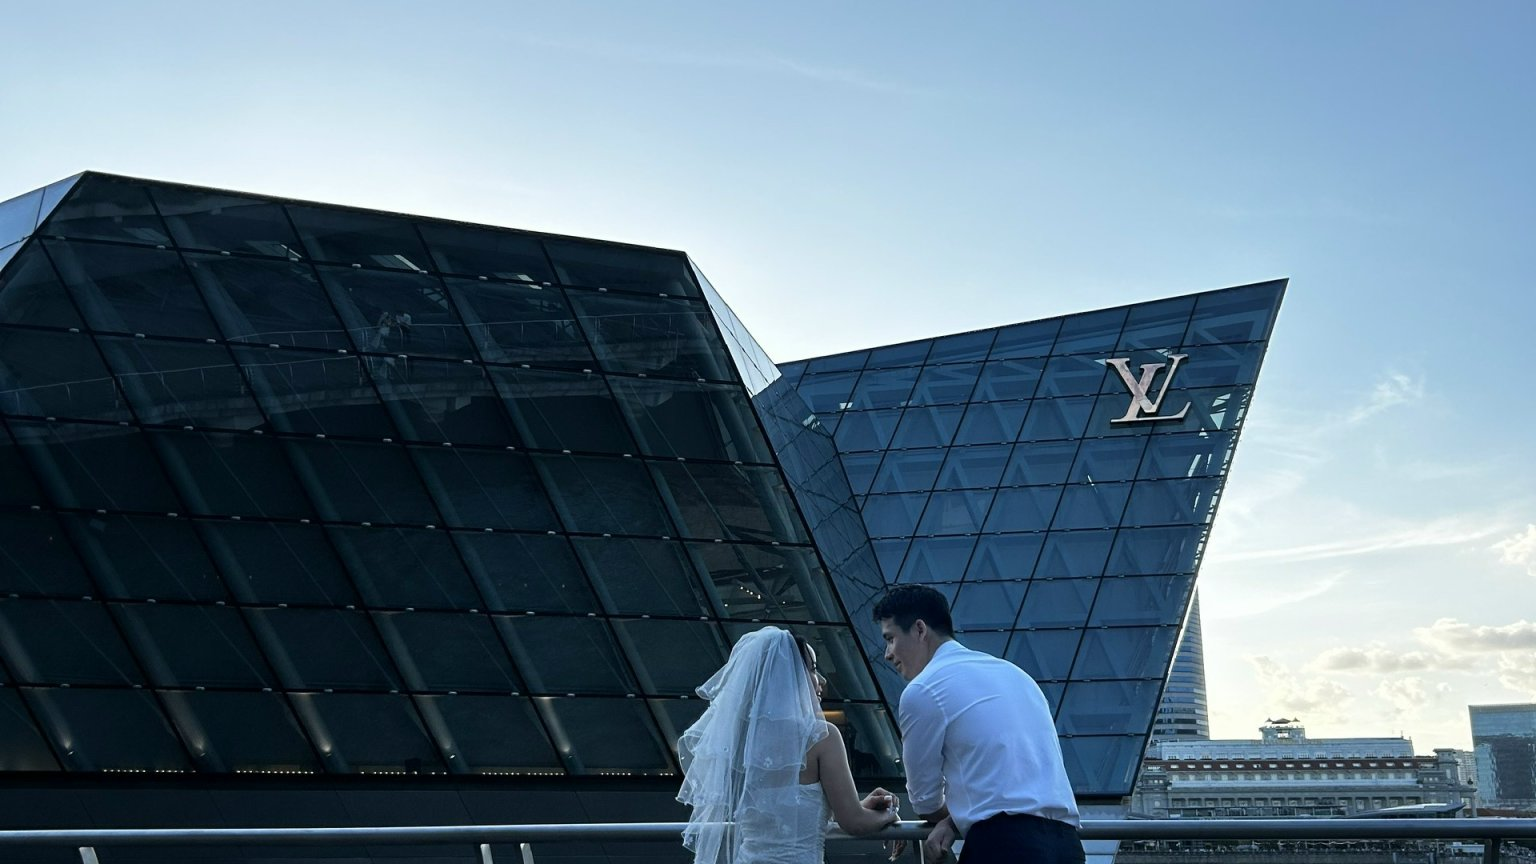
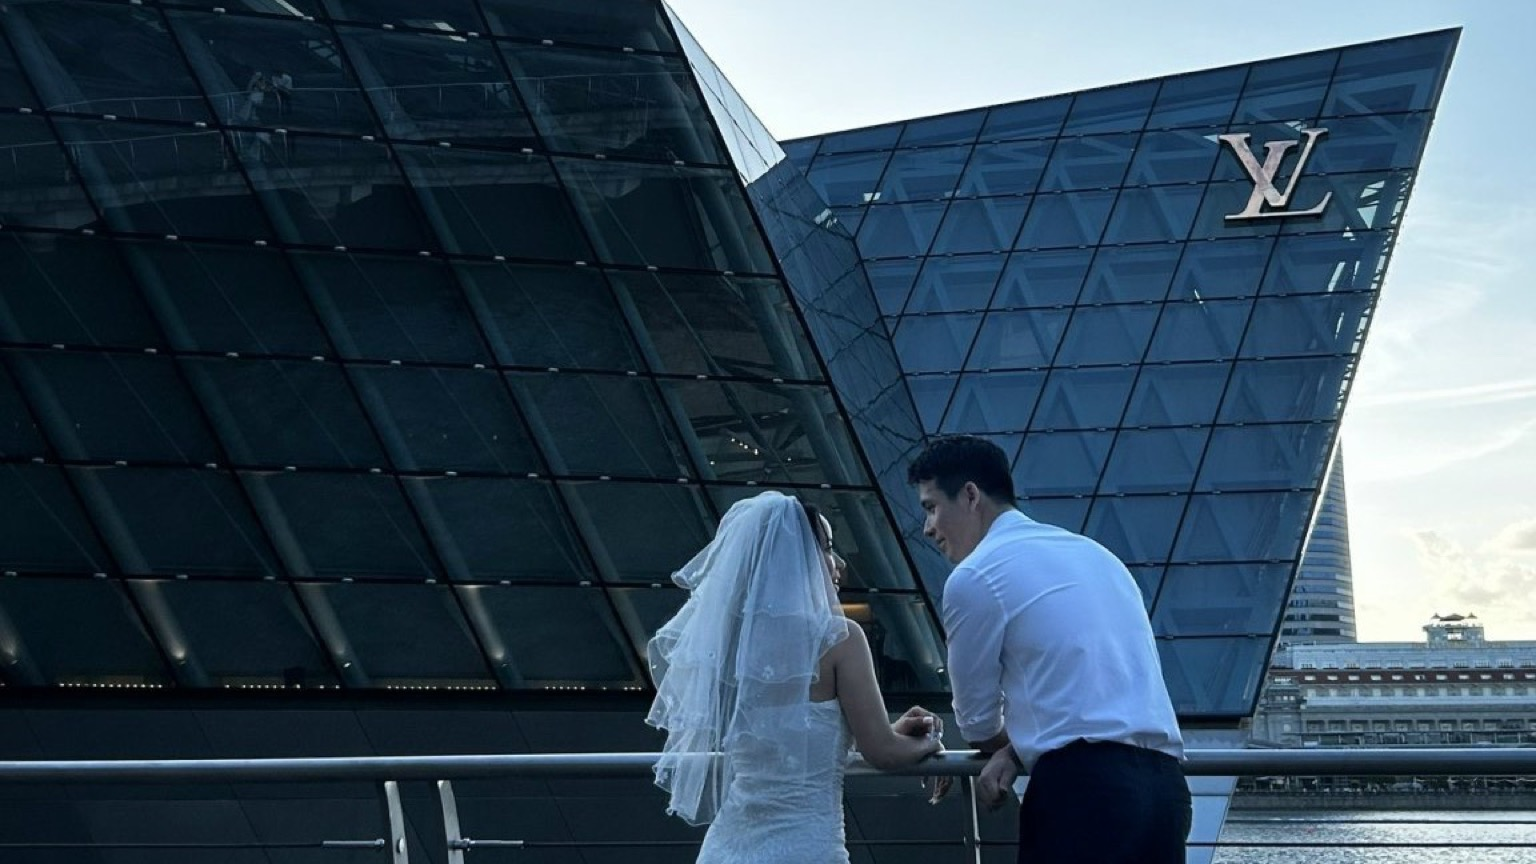
fix: add art-directed hero crops

diff --git a/apps/v1/src/components/ResponsiveImage.tsx b/apps/v1/src/components/ResponsiveImage.tsx
@@ -51,7 +51,6 @@ interface ResponsivePictureProps {
   mobileSrc: string;
   tabletSrc: string;
   desktopSrc: string;
-  backgroundSrc?: string;
   alt: string;
   className?: string;
   objectFit?: 'cover' | 'contain' | 'fill' | 'scale-down';
@@ -70,7 +69,6 @@ export const ResponsivePicture: React.FC<ResponsivePictureProps> = ({
   mobileSrc,
   tabletSrc,
   desktopSrc,
-  backgroundSrc,
   alt,
   className = '',
   objectFit = 'cover',
@@ -79,13 +77,6 @@ export const ResponsivePicture: React.FC<ResponsivePictureProps> = ({
 }) => {
   return (
     <div className="responsive-picture">
-      {backgroundSrc && (
-        <div
-          aria-hidden="true"
-          className="responsive-picture__backdrop"
-          style={{ backgroundImage: `url("${backgroundSrc}")` }}
-        />
-      )}
       <picture className="relative z-10 block h-full w-full">
       {/* Mobile: 0px to 640px */}
       <source media="(max-width: 640px)" srcSet={mobileSrc} />

diff --git a/apps/v1/src/index.css b/apps/v1/src/index.css
@@ -62,15 +62,6 @@
   background: #8ca8bd;
 }
 
-.responsive-picture__backdrop {
-  position: absolute;
-  inset: -24px;
-  background-position: center;
-  background-size: cover;
-  filter: blur(18px) brightness(0.7);
-  transform: scale(1.06);
-}
-
 /* Mobile: Full viewport height with contained image */
 @media (max-width: 640px) {
   .hero-section {
@@ -114,19 +105,10 @@
   .hero-image {
     width: 100%;
     height: 100%;
-    object-fit: contain !important;
+    object-fit: cover !important;
     object-position: center;
   }
 
-  .hero-section .responsive-picture__backdrop {
-    display: block;
-  }
-}
-
-@media (max-width: 1024px) {
-  .hero-section .responsive-picture__backdrop {
-    display: none;
-  }
 }
 
 /* Responsive Image Styles */

diff --git a/apps/v1/src/App.tsx b/apps/v1/src/App.tsx
@@ -156,13 +156,10 @@ const Hero = ({ language, isMuted, onToggle, heroImages }: LocalizedProps & Pick
         <ResponsivePicture
           mobileSrc={heroImages.mobile}
           tabletSrc={heroImages.tablet}
-          // The current landscape source is already cropped at the waist. Keep it
-          // as the desktop backdrop, while showing the complete portrait source.
-          desktopSrc={heroImages.mobile}
-          backgroundSrc={heroImages.desktop}
+          desktopSrc={heroImages.desktop}
           alt={t.hero.alt}
           className="hero-image w-full h-full"
-          objectFit="contain"
+          objectFit="cover"
           priority={true}
         />
         <div className="absolute inset-0 bg-black/30"></div>
